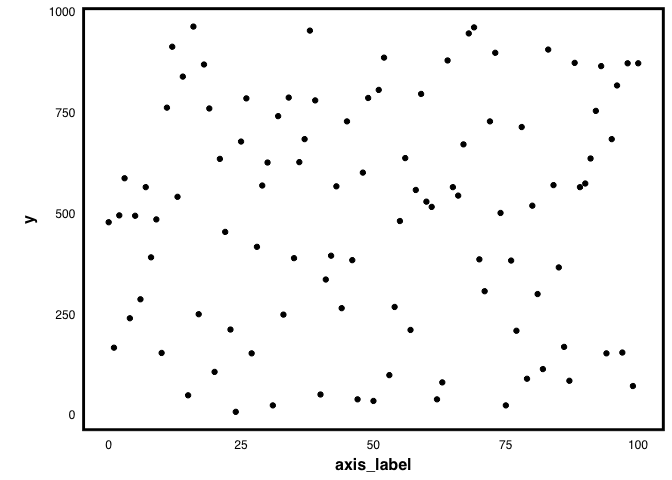
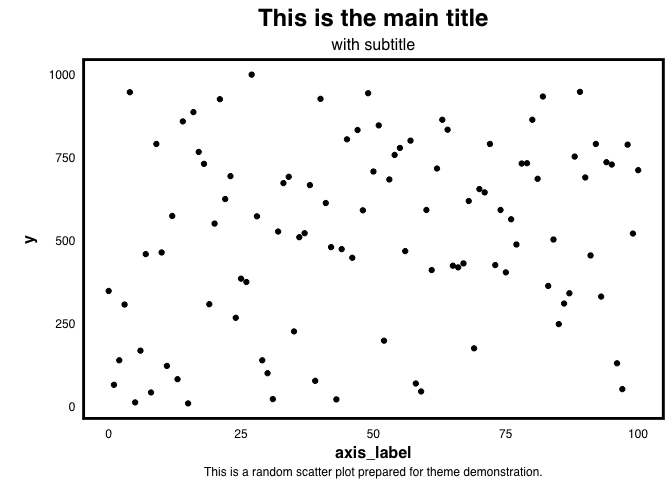
First working version (I think).

diff --git a/README.md b/README.md
@@ -43,8 +43,17 @@ library(pLtemplate)
 
 data <- tibble(x = 0:100, y = sample(1:1000, 101, replace=TRUE))
 
-data %>% ggplot() + aes(x, y) + geom_point() + theme_pL() + xlab("axis_label")
+data %>% ggplot() + 
+    aes(x, y) + 
+    geom_point() + 
+    xlab("axis_label") +
+    labs(title = "This is the main title",
+             subtitle = "with subtitle",
+             caption = "This is a random scatter plot prepared for theme demonstration.") +
+  theme_pL()
 ```
 
-<img src="man/figures/README-example-1.png" width="100%" /> Of note,
-this code works just fine if I do not have it in the Markdown file.
+<img src="man/figures/README-example-1.png" width="100%" />
+
+Some graphical elements will still need to be set manually (eg, axis
+breaks).
